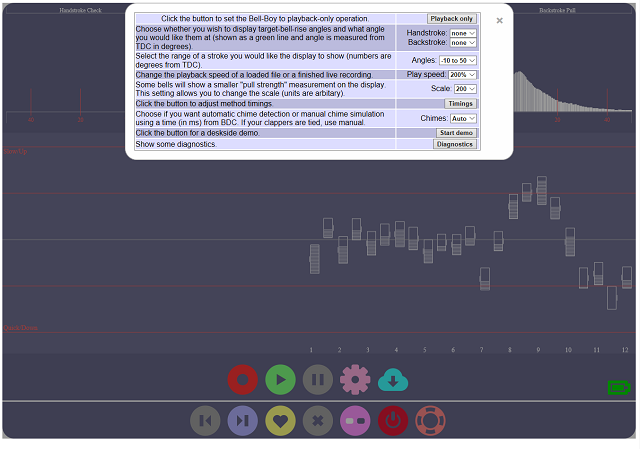
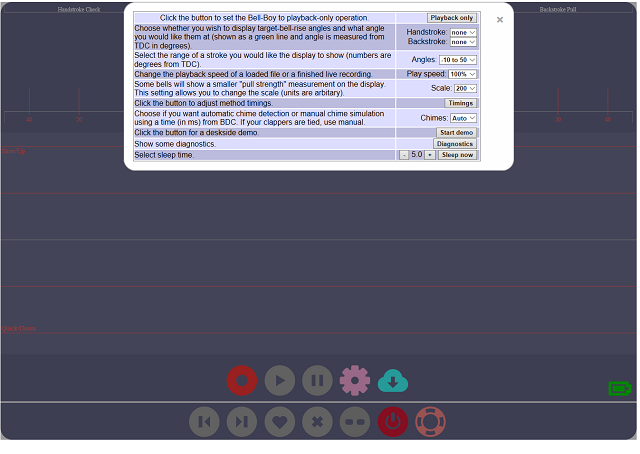
Sleep mode done

diff --git a/help.html b/help.html
@@ -133,13 +133,19 @@ The scale control decides the full scale range of the main display.  200 works w
 <P>The implied timings shows what would be applied by the "Auto" button if automatically calculating the peal time and open handstroke factor.</P>
 <P>The average strike angles row shows where the bell is when a strike was recorded.  They are normally around 60 degrees (backstroke chime) and 300 degrees (handstroke chime) but this varied by bell weight (and other things) if the two numbers don't add up to 360 then there might be some odd-struckness.  In a similar vein, the average strike times from BDC shows the time (in ms) from bottom dead centre when a strike is recorded.</P>
 <p><img src="Diagnostics.png" alt="Diagnostics"></p>
+<h4>Sleep mode</h4>
+<P>As the usage time of the Bell-Boy is limited by its battery (about 6 hours), I have implemented a sleep mode.  This is triggered from the settings display and you should select the number of hours that you want the device to sleep.  This might be useful if you go to lunch on a training day or if you want to make recordings for a session in the morning (eg morning mass) and also in the evening (eg evensong).  After sleep has stated you will see the Bell-Boy's wifi network disappear, it will reappear when the device wakes.</P>
+<P>The calibration settings are preserved during sleep so you can leave the bell up during sleep.</P>
+<P>Whilst in sleep mode the device will only be woken up after the selected sleep time has elapsed.  If the battery runs low during sleep, the device will go into a full power off (and will not wake).</P>
+<P>During sleep mode the LED will flash red once every 8 seconds or so.  If you want to cancel sleep mode, you can only do so by pressing the power button on the Bell-Boy for 20 seconds or so.  When sleep mode is cancelled the LED will rapidly flash red and then go into full power off.</P>
+<P>Sleep mode will also be cancelled if the device is plugged in to charge.  It will then go into a normal charge cycle. </P>
+<P>Sleep mode uses about 10% of the remaining battery life every 5 hours.[TBC]</P>
 <h2>
 <a name="shutdown"></a>Shutdown</h2>
-<P>You can shutdown the Bell-Boy in two ways.  The first is by holding the power button on the front of the device down for five or six seconds (and the device should then shutdown within the next 30 seconds).  The second is to select the power control in the web interface and then press OK in the resulting pop-up.</P>
-<P>You should not power down the Bell-Boy by removing its batteries unless the other methods of powering down have not worked.  The software running on the Bell-Boy needs to be cleanly shut down and whilst removing the batteries might appear to be OK nine times out of ten, there is a possibility of corrupting the software on the devices SD card (resulting in a failure to start up and requiring a re image of the SD card or a replacement SD card).</P>
+<P>You can shutdown the Bell-Boy in two ways.  The first is by holding the power button on the front of the device down for a couple of seconds until you see the LED flash (and the device should then shutdown within the next 30 seconds).  The second is to select the power control in the web interface and then press OK in the resulting pop-up.</P>
 <h2>
 <a name="power-and-battery"></a>Power and battery</h2>
-<P>Your Bell-Boy has an internal LiPo battery, which is good for around 6 hours of use from a full charge.  It is important not to overdischarge LiPo batteries so the device will switch off if the battery level gets too low.</P>
+<P>Your Bell-Boy has an internal LiPo battery, which is good for around 6 hours of powered on use from a full charge (you will get much more if you send the device to sleep).  It is important not to overdischarge LiPo batteries so the device will switch off if the battery level gets too low.</P>
 <P>The battery can be charged via the micro USB port (both ports seem to work, but best to use the official one which is the one closer to the side of the case).  You should use a standard 5V (no more than 5.2V) USB charger.  The charge current is set at around 250mA, so you can even charge the Bell-Boy using a computer USB port.  Once plugged in, the LED will go solid red, when the charge cycle is complete (about 4 hours from a drained battery), the LED will go solid green.  You can then unplug the power lead from the micro USB port.  Within a few seconds of unplugging, the LED will quickly flash red a few times and then go off (this indicates that the Bell-Boy is completely powered off).</P>
 <P>The Bell-Boy is purposely designed not to be used whilst power is connected via USB.  When power is connected in this way, the Raspberry Pi is held in a halt state and won't boot.  So don't attempt to get a longer usage time out of the Bell-Boy by leaving it attached to a bell with power connected - it won't work!</P>
 <h2>

diff --git a/bellboy.js b/bellboy.js
@@ -1271,7 +1271,7 @@ sleepButton.onclick = function() {
     if (currentStatus & PLAYBACK) return;
     if (currentStatus & HELPDISPLAYED) return;
     if (currentStatus & RECORDINGSESSION) return;
-    ws.send("EYEC:" + (sleepTime*2));
+    if (confirm("Are you sure you want to send me to sleep?")) ws.send("SLEP:" + (sleepTime*2));
 };
 
 plusOHButton.onclick = function(){

diff --git a/grabber/grabber.c b/grabber/grabber.c
@@ -464,25 +464,31 @@ int main(int argc, char const *argv[]){
                     uint8_t  _bytes[sizeof(float)];
                 } floatConv;
                 if(calibrationData.gravityCalibrationState == 4){
-                    I2C_BUFFER[0]=8; // gravityValue
                     floatConv._float = calibrationData.gravityValue;
-                    I2C_BUFFER[1] = floatConv._bytes[0];
-                    I2C_BUFFER[2] = floatConv._bytes[1];
-                    I2C_BUFFER[3] = floatConv._bytes[2];
-                    I2C_BUFFER[4] = floatConv._bytes[3];
-                    bcm2835_i2c_write(I2C_BUFFER,5); 
-                    usleep(750000);
+                } else {
+                    floatConv._float = -360; // nothing recorded, null value flagged
                 }
+                I2C_BUFFER[0]=8; // gravityValue
+                I2C_BUFFER[1] = floatConv._bytes[0];
+                I2C_BUFFER[2] = floatConv._bytes[1];
+                I2C_BUFFER[3] = floatConv._bytes[2];
+                I2C_BUFFER[4] = floatConv._bytes[3];
+                bcm2835_i2c_write(I2C_BUFFER,5); 
+                usleep(750000);
+
                 if(calibrationData.torn == 3){
-                    I2C_BUFFER[0]=9; // tareValue
-                    floatConv._float = calibrationData.tareValue;
-                    I2C_BUFFER[1] = floatConv._bytes[0];
-                    I2C_BUFFER[2] = floatConv._bytes[1];
-                    I2C_BUFFER[3] = floatConv._bytes[2];
-                    I2C_BUFFER[4] = floatConv._bytes[3];
-                    bcm2835_i2c_write(I2C_BUFFER,5); 
-                    usleep(750000);
+                    floatConv._float = calibrationData.tareValue;                    
+                } else {
+                    floatConv._float = -360; // nothing recorded, null value flagged
                 }
+                I2C_BUFFER[0]=9; // tareValue
+                I2C_BUFFER[1] = floatConv._bytes[0];
+                I2C_BUFFER[2] = floatConv._bytes[1];
+                I2C_BUFFER[3] = floatConv._bytes[2];
+                I2C_BUFFER[4] = floatConv._bytes[3];
+                bcm2835_i2c_write(I2C_BUFFER,5); 
+                usleep(750000);
+
                 I2C_BUFFER[0]=7; // tareValue
                 I2C_BUFFER[1] = (char)sleepTime;
                 bcm2835_i2c_write(I2C_BUFFER,2); 
@@ -1265,22 +1271,23 @@ void setup(void){
     bcm2835_i2c_write(I2C_BUFFER,1); usleep(100); // set register 8 (gravityValue)
     bcm2835_i2c_read(I2C_BUFFER,4); usleep(100);
     result = extractFloat(0);
-    if(!isnan(result) && result != -1){
+    if(!isnan(result) && result != -360){
         calibrationData.gravityValue = result;
         calibrationData.gravityCalibrationState = 4;
-        calibrationData.torn = 3;
-
-        I2C_BUFFER[0]=9;
-        bcm2835_i2c_write(I2C_BUFFER,1); usleep(100); // set register 9 (tareValue)
-        bcm2835_i2c_read(I2C_BUFFER,4); usleep(100);
-        result = extractFloat(0);
-        if(!isnan(result)) calibrationData.tareValue = result;
         FILE *fdGravity;
         fdGravity = fopen("/tmp/BBgravity","w");
         if(fdGravity != NULL) {
             fprintf(fdGravity,"%+08.1f\n", calibrationData.gravityValue);
             fclose(fdGravity);
         }
+    }
+    I2C_BUFFER[0]=9;
+    bcm2835_i2c_write(I2C_BUFFER,1); usleep(100); // set register 9 (tareValue)
+    bcm2835_i2c_read(I2C_BUFFER,4); usleep(100);
+    result = extractFloat(0);
+    if(!isnan(result) && result != -360) {
+        calibrationData.tareValue = result;
+        calibrationData.torn = 3;
         FILE *fdTare;
         fdTare = fopen("/tmp/BBtare","w");
         if(fdTare != NULL) {
@@ -1288,7 +1295,6 @@ void setup(void){
             fclose(fdTare);
         }
     }
-
     //start FIFO - keep i2c disabled
     writeRegister(ICM20689_USER_CTRL,0x50);
 }
